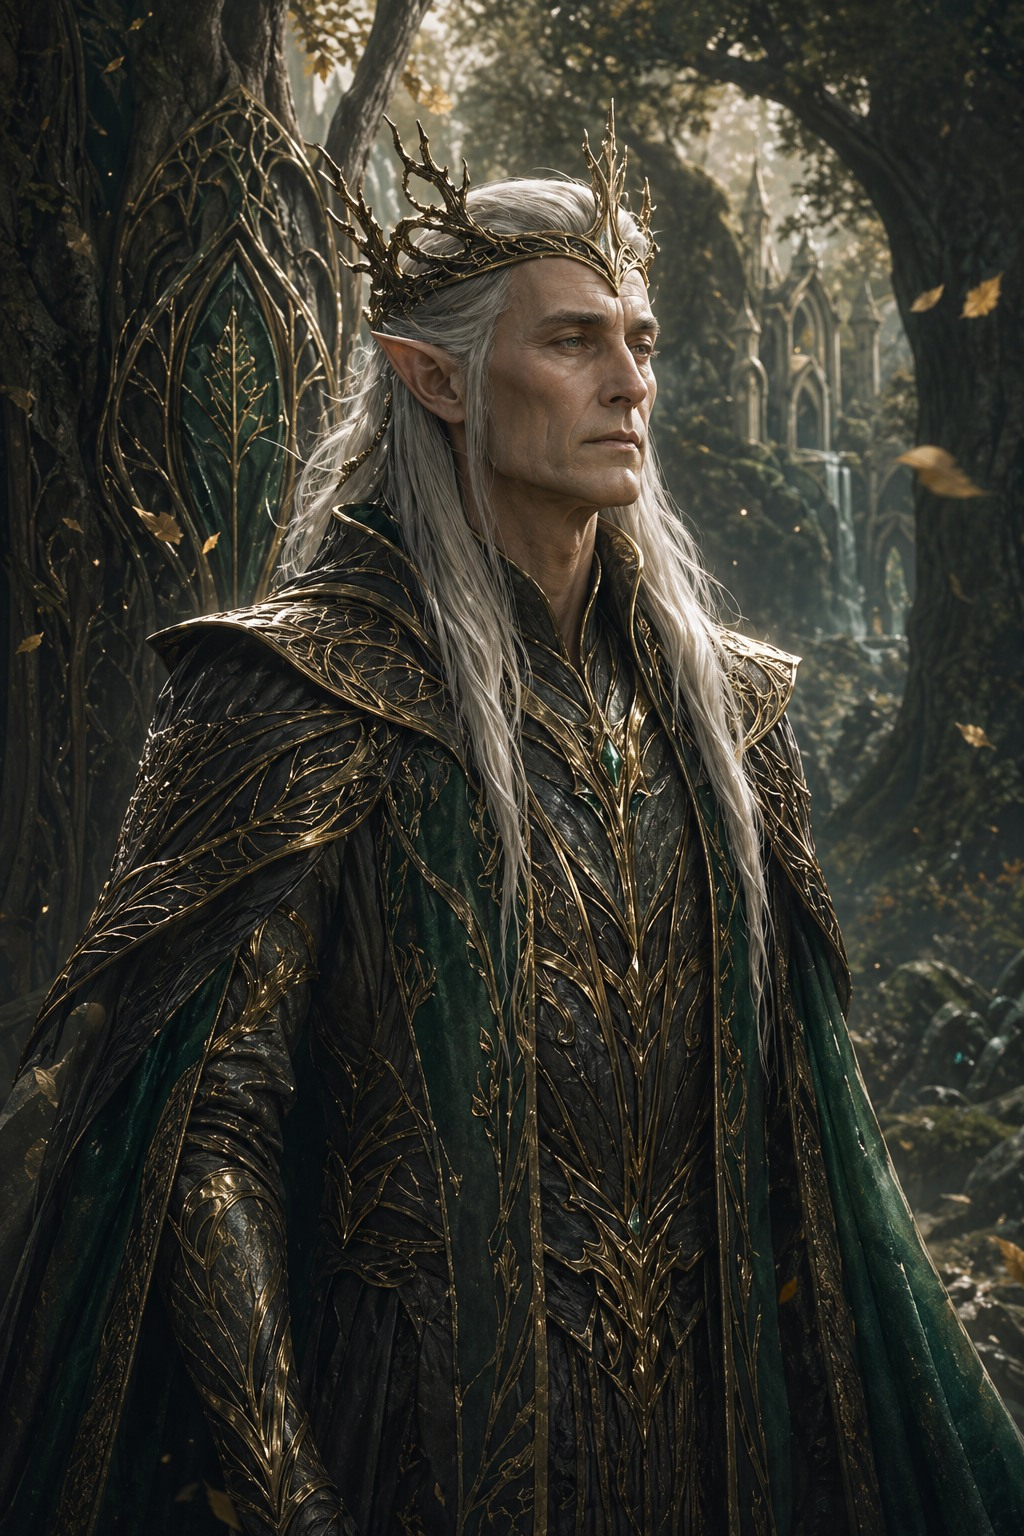
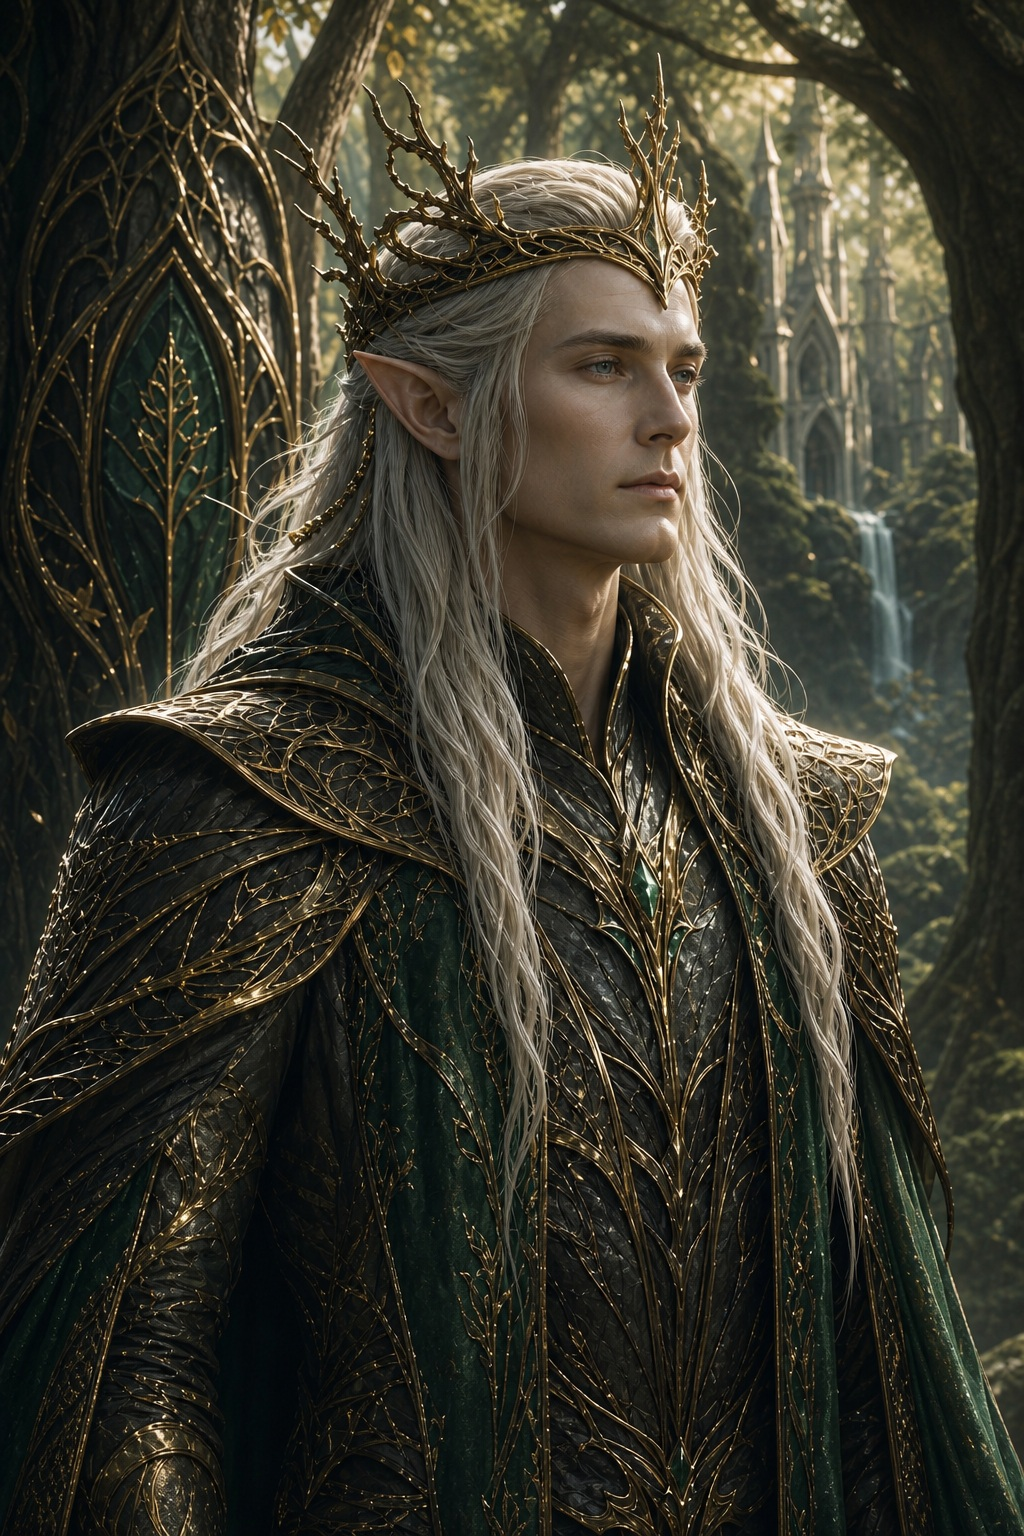
Омолодить портрет Короля Андриана

diff --git a/11_Медиа/Портреты_персонажей/Король_Андриан/Промпт_портрета.md b/11_Медиа/Портреты_персонажей/Король_Андриан/Промпт_портрета.md
@@ -1,0 +1,33 @@
+# Промпт портрета: Король Андриан
+
+---
+type: portrait_prompt
+status: used
+canon_level: support
+character: Король Андриан
+output: 11_Медиа/Портреты_персонажей/Король_Андриан/Король_Андриан_основной_портрет.jpg
+---
+
+## Назначение
+
+Обновленный основной портрет Короля Андриана в общем стиле игры.
+
+Итоговый файл: `11_Медиа/Портреты_персонажей/Король_Андриан/Король_Андриан_основной_портрет.jpg`
+
+## Причина обновления
+
+Предыдущий портрет делал Андриана слишком старым по лицу. В каноне эльфы славятся вечной молодостью, поэтому Андриан должен выглядеть древним правителем через взгляд, осанку и королевское достоинство, а не через человеческую старость.
+
+## Промпт
+
+Вертикальный кинематографичный реалистичный портрет персонажа: Король Андриан, легендарный повелитель лесного королевства эльфов, который ведет свой народ уже 855 лет. Сохранить образ эльфийского короля из основного портрета: длинные серебряно-белые волосы, острые уши, ветвистая золотая корона, темно-изумрудные королевские одежды, лесной золотой доспех с филигранью, священная роща и эльфийская архитектура за спиной. Лицо должно быть вечно молодым и безвозрастным: гладкая кожа, благородные тонкие черты, отсутствие старческих морщин, дряблости, впалых щек и человеческой старости. Визуальный возраст по человеческим меркам - молодой зрелый эльф, примерно конец двадцатых или начало тридцатых, но взгляд должен нести 855 лет памяти, мудрости и спокойной власти. Персонаж крупно в кадре, вертикальный формат 1024x1536, лицо хорошо видно. Свет: прохладный лесной свет с теплыми золотыми бликами. Атмосфера: героическое темное фэнтези, древняя мудрость без старости, спокойная надежда, высокая детализация, без текста и водяных знаков.
+
+## Негативные требования
+
+- Не делать Андриана стариком, пожилым человеком или дряхлым правителем.
+- Не добавлять глубокие морщины, впалые щеки, старческую кожу или усталую человеческую старость.
+- Не делать короткие волосы, человеческие уши, бороду или современную одежду.
+- Не менять фракцию: это лесной эльфийский король, а не человек, темный эльф, вампир или маг-некромант.
+- Не добавлять других персонажей с различимыми лицами.
+- Не делать квадратный кадр для основного портрета.
+- Не добавлять текст, логотипы, рамки или водяные знаки.

diff --git a/08_Источники/2026-05-08_король_андриан_омоложение_портрета.md b/08_Источники/2026-05-08_король_андриан_омоложение_портрета.md
@@ -1,0 +1,27 @@
+# Источник. Король Андриан, обновление портрета от 2026-05-08
+
+---
+type: source_note
+status: processed
+canon_level: source
+---
+
+## Исходный фрагмент
+
+Пользователь уточнил, что у Короля Андриана на основном портрете лицо слишком старое, а эльфы славятся тем, что они вечно молодые.
+
+## Что зафиксировано
+
+- Основной портрет Короля Андриана обновлен: лицо теперь молодое и безвозрастное, а не старческое.
+- В канон эльфов добавлено правило визуального образа: древние эльфы сохраняют вечную молодость, а возраст читается во взгляде, памяти и достоинстве.
+- Образ Андриана уточнен как древний правитель с молодой эльфийской внешностью.
+- Для будущих генераций добавлен отдельный промпт портрета Андриана.
+
+## Канонические файлы
+
+- `03_Персонажи/Король_Андриан.md`
+- `04_Локации/Королевство_Эльфов.md`
+- `02_Лор/03_Фракции_и_силы.md`
+- `11_Медиа/Портреты_персонажей/Правила_генерации_портретов.md`
+- `11_Медиа/Портреты_персонажей/Король_Андриан/Промпт_портрета.md`
+- `11_Медиа/Портреты_персонажей/Король_Андриан/Король_Андриан_основной_портрет.jpg`

diff --git a/03_Персонажи/Король_Андриан.md b/03_Персонажи/Король_Андриан.md
@@ -43,11 +43,13 @@ portrait_status: available
 
 - Статус: есть.
 - Основной файл: `11_Медиа/Портреты_персонажей/Король_Андриан/Король_Андриан_основной_портрет.jpg`
-- Образ: древний и вместе с тем несломленный эльфийский король с длинными серебряно-белыми волосами, короной из золота и ветвей, темно-изумрудными королевскими одеждами и лесным золотым доспехом, на фоне священной рощи и эльфийской архитектуры.
+- Промпт: `11_Медиа/Портреты_персонажей/Король_Андриан/Промпт_портрета.md`
+- Образ: древний, но внешне вечно молодой эльфийский король с гладким безвозрастным лицом, длинными серебряно-белыми волосами, острыми ушами, короной из золота и ветвей, темно-изумрудными королевскими одеждами и лесным золотым доспехом, на фоне священной рощи и эльфийской архитектуры. Его возраст и мудрость должны читаться во взгляде, а не в старческих чертах.
 
 ## Известные черты
 
 - правит лесным королевством эльфов 855 лет;
+- несмотря на древний возраст, сохраняет вечно молодой эльфийский облик;
 - пережил множество эпох и поколений;
 - видел расцветы и падения цивилизаций и королевств;
 - необычайно мудр и осторожен в оценке угроз;

diff --git a/02_Лор/03_Фракции_и_силы.md b/02_Лор/03_Фракции_и_силы.md
@@ -90,6 +90,8 @@ canon_level: active
 
 Эльфами правит Король Андриан, легендарный владыка лесного королевства, который ведет свой народ уже 855 лет. Он пережил множество эпох и поколений, видел расцветы и падения цивилизаций и считается одним из самых мудрых правителей мира.
 
+Эльфы славятся вечной молодостью: даже древние владыки вроде Андриана не выглядят стариками по человеческим меркам. Их возраст проявляется в глубине взгляда, памяти и достоинстве, а не в морщинах или дряхлости.
+
 Эльфы помогли Александросу во время войны с гномами. Армию эльфов возглавлял Принц Девиан, первенец великого короля Андриана.
 
 Девиан - блистательный полководец, который многие годы оборонял западные границы королевства от набегов варваров и заслужил славу среди своего народа.

diff --git a/04_Локации/Королевство_Эльфов.md b/04_Локации/Королевство_Эльфов.md
@@ -18,6 +18,8 @@ canon_level: active
 
 Главное военное лицо текущей угрозы - Принц Девиан, первенец Андриана и прославленный полководец королевства.
 
+Эльфы славятся вечной молодостью: даже спустя века их лица остаются безвозрастными и прекрасными, а древность читается скорее во взгляде, памяти и манере держаться, чем в старческих чертах.
+
 ## Роль в мире
 
 Королевство эльфов пережило множество соседних держав. Пока человеческие королевства рождаются, дробятся и исчезают, эльфийское королевство хранит непрерывность власти, памяти и воинской традиции.

diff --git a/11_Медиа/Портреты_персонажей/Правила_генерации_портретов.md b/11_Медиа/Портреты_персонажей/Правила_генерации_портретов.md
@@ -140,7 +140,7 @@ canon_level: support
 
 Файл: `11_Медиа/Портреты_персонажей/Король_Андриан/Король_Андриан_основной_портрет.jpg`
 
-Образ: древний повелитель лесного королевства эльфов, длинные серебряно-белые волосы, острые уши, корона из золота и ветвей, темно-изумрудные королевские одежды, лесной золотой доспех с филигранью, священная роща и эльфийская архитектура за спиной, мудрость 855 лет правления и спокойная надежда.
+Образ: древний повелитель лесного королевства эльфов, но внешне вечно молодой и безвозрастный, с гладким благородным лицом без старческих морщин и дряхлости; длинные серебряно-белые волосы, острые уши, корона из золота и ветвей, темно-изумрудные королевские одежды, лесной золотой доспех с филигранью, священная роща и эльфийская архитектура за спиной, мудрость 855 лет правления во взгляде и осанке, спокойная надежда.
 
 ### Баронесса Оливия
 